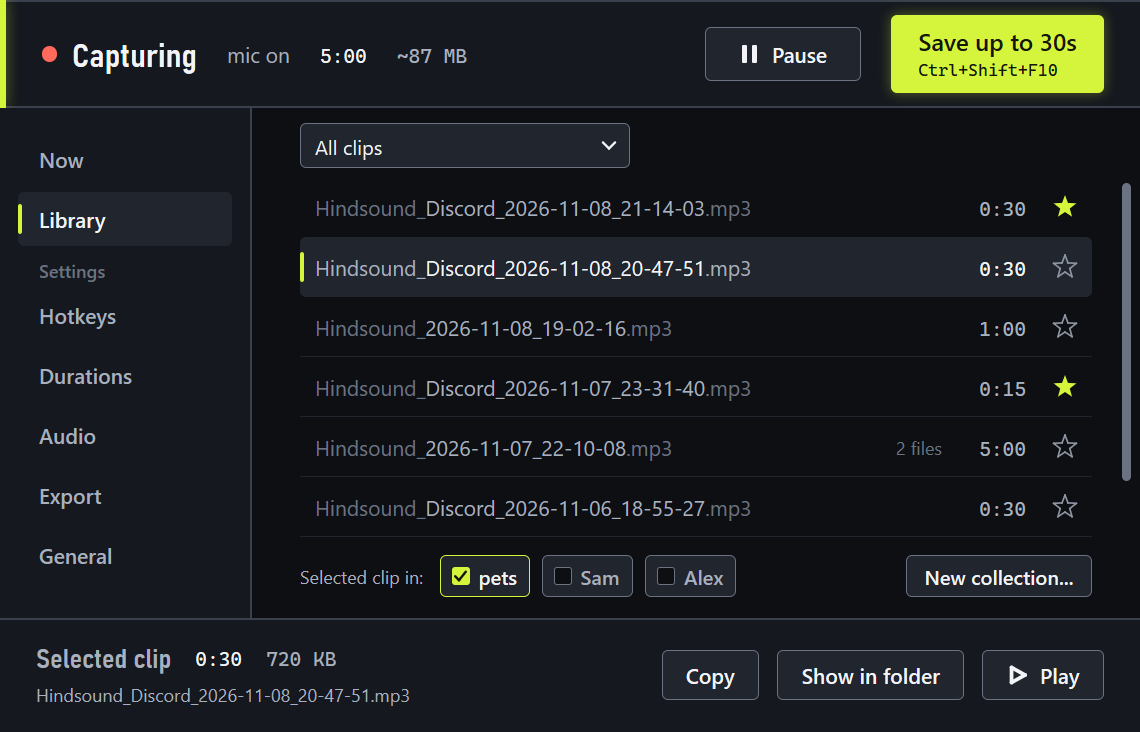
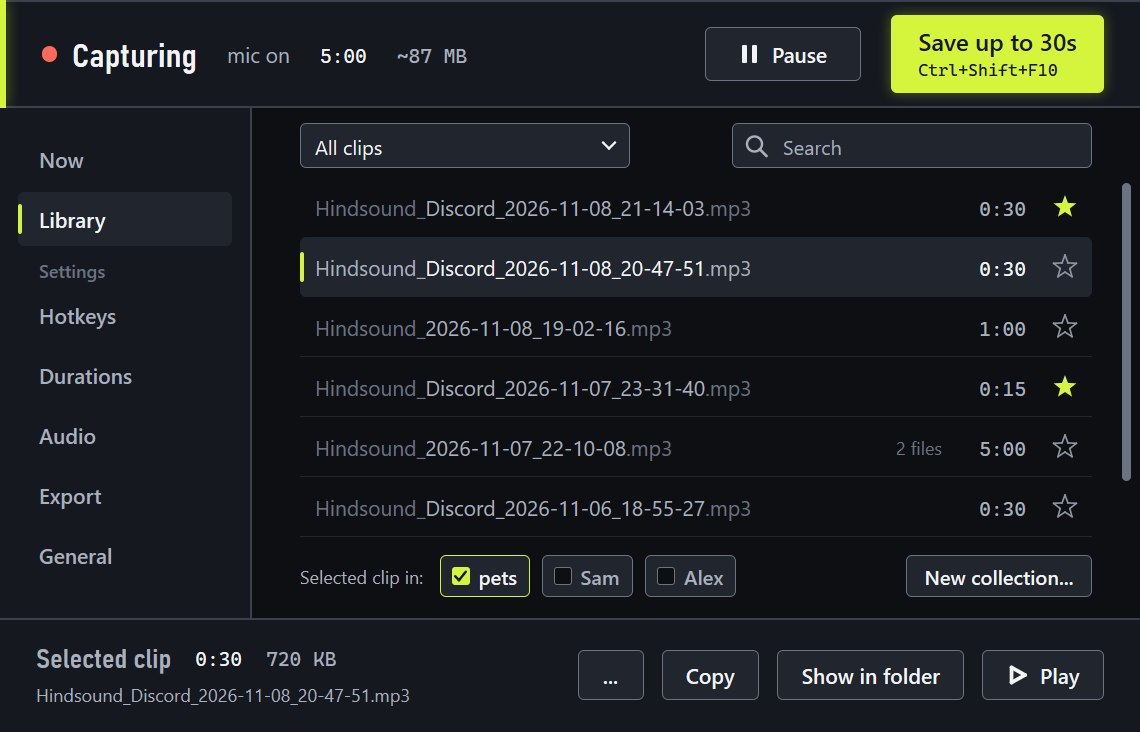
Screenshots of the README: the Library with its search field and the ... button, the Hotkeys page with seven rows and the Language row of General, drawn from the release branch at 150%

Changed region(s): [[0.6447, 0.1503, 0.9825, 0.2404]]

diff --git a/README.md b/README.md
@@ -52,15 +52,15 @@ window, comes with the releases after 0.5.0, and the releases after 0.7.0 add it
 
 | Now: what the memory holds | Library: your clips |
 | --- | --- |
-| <img src="assets/screenshots/now.png" alt="Now page: a wave for the PC sound and one for the microphone, the last 0:30 bright, and Save: last 0:30 under the wave" width="400"> | <img src="assets/screenshots/library.png" alt="Library page: the clips newest first, each with its length, one of them chosen, and Copy, Show in folder and Play at the bottom" width="400"> |
+| <img src="assets/screenshots/now.png" alt="Now page: a wave for the PC sound and one for the microphone, the last 0:30 bright, and Save: last 0:30 under the wave" width="400"> | <img src="assets/screenshots/library.png" alt="Library page: a menu of collections and a search field above the clips, newest first, each with its length, one of them chosen, and the ... button, Copy, Show in folder and Play at the bottom" width="400"> |
 
 | Hotkeys | Durations and memory |
 | --- | --- |
-| <img src="assets/screenshots/settings-hotkeys.png" alt="Settings, Hotkeys page: Save clip is Ctrl+Shift+F10, the five others are not set" width="400"> | <img src="assets/screenshots/settings-durations.png" alt="Settings, Durations page: clip length 30s, 5:00 kept in memory, about 87 MB of RAM" width="400"> |
+| <img src="assets/screenshots/settings-hotkeys.png" alt="Settings, Hotkeys page: Save clip is Ctrl+Shift+F10, the six others, Save and edit among them, are not set" width="400"> | <img src="assets/screenshots/settings-durations.png" alt="Settings, Durations page: clip length 30s, 5:00 kept in memory, about 87 MB of RAM" width="400"> |
 
 | Recording one application | Accent color and notifications |
 | --- | --- |
-| <img src="assets/screenshots/settings-audio-one-app.png" alt="Settings, Audio page: Record is set to Discord, the band says Capturing Discord, Output is greyed out" width="400"> | <img src="assets/screenshots/settings-general.png" alt="Settings, General page: accent color swatches, a notification preview, and the first toggles" width="400"> |
+| <img src="assets/screenshots/settings-audio-one-app.png" alt="Settings, Audio page: Record is set to Discord, the band says Capturing Discord, Output is greyed out" width="400"> | <img src="assets/screenshots/settings-general.png" alt="Settings, General page: accent color swatches, a notification preview, and the first rows, Language among them" width="400"> |
 
 <sub>Drawn by the app itself on sample values: no real clip, device or application list is shown.</sub>
 
